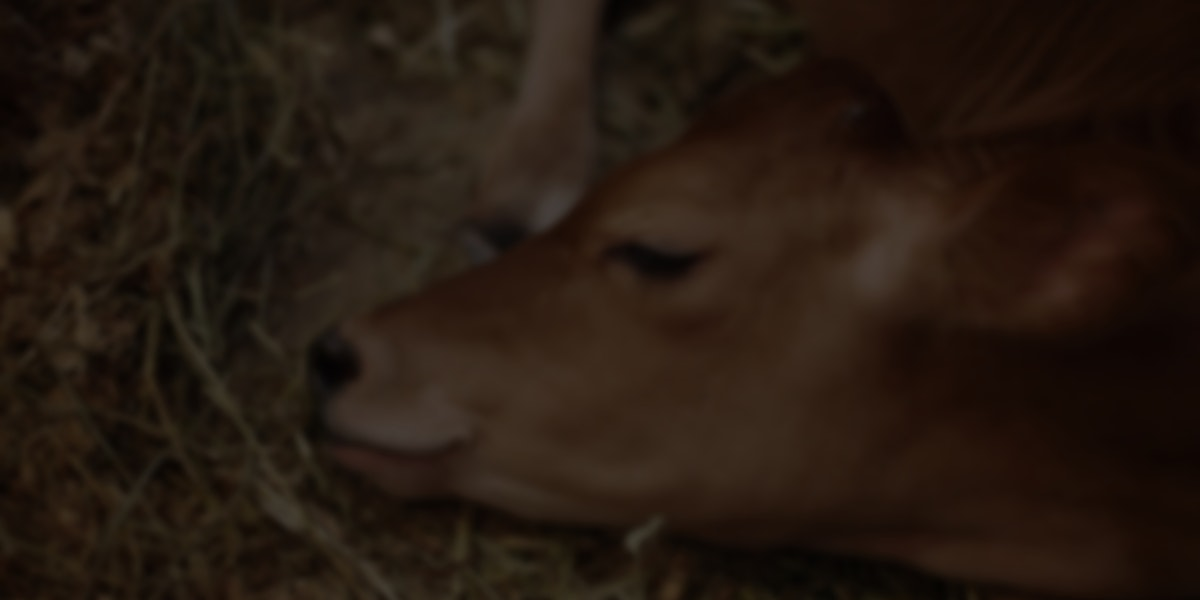
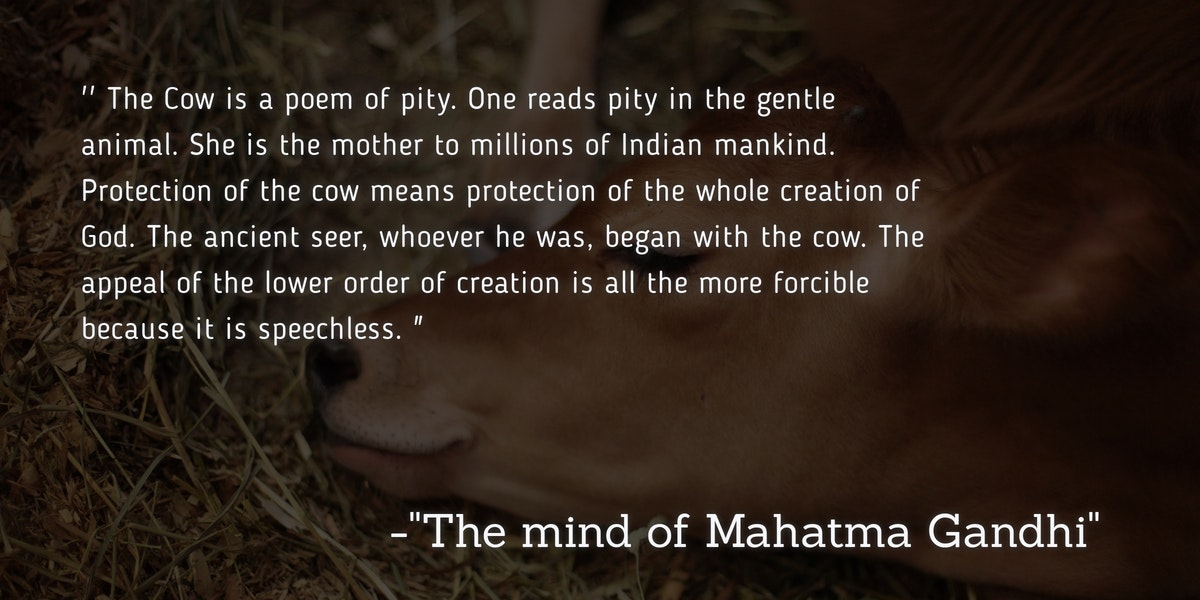
Cow Shelter is Complete.

diff --git a/donations/templates/donations/cowshelter.html b/donations/templates/donations/cowshelter.html
@@ -1,43 +1,46 @@
 {% extends 'home/base.html' %}
 {% load static %}
 {% block content %}
-<div>
+<div class="cow_div">
     <div class="yajna_headings">
         <div>Gaushala</div>
     </div>
     <div class="container">
         <div class="cowcover_div">
-            <div class="cowcover_text_div">"The Cow is a poem of pity. One reads pity in the gentle animal.
-            She is the mother to millions of Indian mankind. Protection of the cow means
-            protection of the whole creation of God. The ancient seer, whoever he was,
-            began with the cow. The appeal of the lower order of creation is all the more
-            forcible because it is speechless."
-            <span>- from "
-                <a href="https://www.mkgandhi.org/momgandhi/chap81.htm">The mind of Mahatma Gandhi</a>"
-            </span>
-            </div>
+            <img src="{% static 'images/cowcover.jpg' %}" alt="" class="cow_img">
         </div>
         <h2>Donation Invites for Cow Shelter (Gaushala)</h2>
         <p>A Cowpen (Gaushala) is situated in Kanpur at Itahara farm where the cows of
             Sahiwal are being reared under a protected environment. The aim of preservation of the cows
             is to give better shelter and save the reared variety of cow Sahiwal and give them a natural
             vedic atmosphere under the mission of  Indian Vedic Foundation.</p>
-        <h2>Cows and the Vedas</h2>
-        <p>The Vedas teach us that the cow is the personalized embodiment of <strong>Kamadhenu</strong>,
-            abode to the gods and demigods, who fulfills all our wishes, blessed by the rays
-            and influences of the heavenly constellations and Gods. <strong>Only the Desi Indian cows
-            have that characteristic hump with a Surya Ketu Nadi, a vein that passes through
-            her backbone and absorbs the sun’s rays, resulting in a golden hue to its milk,
-            ghee and butter</strong>. The cow’s milk and body fluids are endowed with several salts
-            that offer cures to diverse diseases of the human body. In its stature as mother
-            to every living being, it also provides pleasure to all. That the cow can absorb an
-            intake of poisonous food, without passing on the negative aspects of it to her milk,
-            urine or dung is unbelievable; what can you attribute to this, other than divine
-            intervention.  They are totally harmless and the milk is not toxic at all.
-            When the urine of other animals is tested after feeding it them with a variety of
-            mildly poisonous food, their urine shows traces of them, but cow's urine didn't show
-            any such response. This proves that cows are the only living beings that are able to
-            digest poisonous compounds too. Hence it becomes necessary to save them for mankind</p>
+        <div>
+            <div>
+                <div>
+                    <img src="{% static 'images/cow02.jpg' %}" alt="" class="card_img2"
+                         style="float: right;">
+                </div>
+                <h2>Cows and the Vedas</h2>
+                <p class="p_div">The Vedas teach us that the cow is the personalized embodiment of <strong>Kamadhenu</strong>,
+                abode to the gods and demigods, who fulfills all our wishes, blessed by the rays
+                and influences of the heavenly constellations and Gods. <strong>Only the Desi Indian cows
+                have that characteristic hump with a Surya Ketu Nadi, a vein that passes through
+                her backbone and absorbs the sun’s rays, resulting in a golden hue to its milk,
+                ghee and butter</strong>. The cow’s milk and body fluids are endowed with several salts
+                that offer cures to diverse diseases of the human body. In its stature as mother
+                to every living being, it also provides pleasure to all. That the cow can absorb an
+                intake of poisonous food, without passing on the negative aspects of it to her milk,
+                urine or dung is unbelievable; what can you attribute to this, other than divine
+                intervention.  They are totally harmless and the milk is not toxic at all.
+                When the urine of other animals is tested after feeding it them with a variety of
+                mildly poisonous food, their urine shows traces of them, but cow's urine didn't show
+                any such response. This proves that cows are the only living beings that are able to
+                digest poisonous compounds too. Hence it becomes necessary to save them for mankind</p>
+            </div>
+        </div>
+        <div class="button_div">
+            <a href="#" class="donate_button">Donate Now</a>
+        </div>
     </div>
 </div>
 {% endblock %}

diff --git a/donations/static/css/cowshelter.css b/donations/static/css/cowshelter.css
@@ -1,13 +1,38 @@
-.cowcover_div {
-    background: rgba(55,55,55,0.9) url('../images/cow.jpg') no-repeat;
-    background-size: cover;
-    color: #fff;
-    height: 400px;
+.cow_div h2 {
+    font-family: 'Acme';
 }
-.cowcover_text_div {
+.cow_div p {
+    font-family: 'Raleway';
+}
+.cowcover_div {
+    background-color: rgba(243,234,219,0.8);
+    height: 500px;
+    margin-bottom: 30px;
+}
+.cow_img {
+    height: 500px;
+    width: 100%;
+}
+.button_div {
     text-align: center;
-    width: 70%;
-    margin: auto;
-    font-weight: 100;
-    font-family: 25px 'Pacifico';
+    margin: 20px 0;
+    padding: 20px 0;
+    transition: all .3s ease-in-out;
+}
+.button_div:hover {
+    transform: scale(1.1);
+}
+.donate_button {
+    padding: 15px 150px;
+    background-color: rgba(40,167,69,1.0);
+    color: #fff;
+    font: 22px 'Acme';
+    border-radius: 5px;
+    transition: all .3s ease-in-out;
+}
+.donate_button:hover {
+    color: rgba(40,167,69,1.0);
+    border: 3px solid rgba(40,167,69,1.0);
+    background-color: #fff;
+    text-decoration: none;
 }
